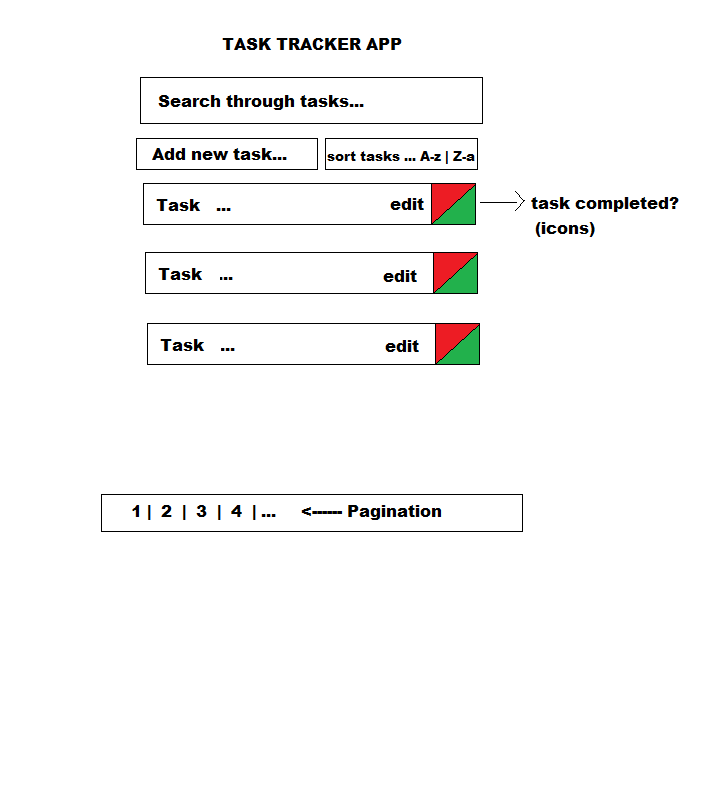
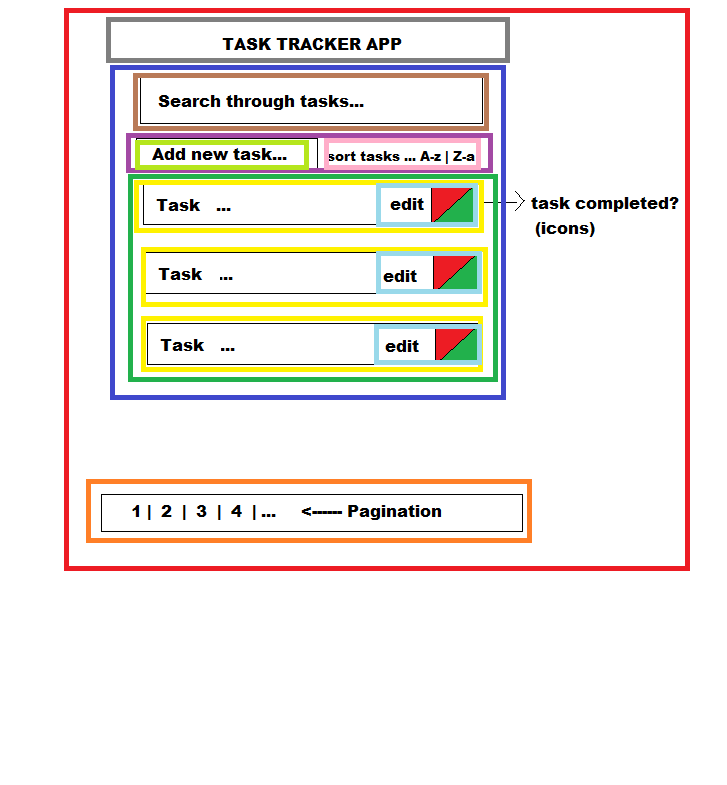
Feeling lost, la la la, trying to make sense of these folder structures, la la la... Updated README btw

Changed region(s): [[0.0908, 0.0, 0.9684, 0.7338]]

diff --git a/src/App.js b/src/App.js
@@ -1,21 +1,15 @@
-import { useState, useEffect } from "react";
-import axios from "axios";
+import React from "react";
+import Header from "./layout/header/Header";
+import Main from "./layout/main/Main";
+import Footer from "./layout/footer/Footer";
+import "./styles/index.css";
 
 function App() {
-  let data;
-  const handleClick = () => {
-    axios.get("http://localhost:5000/tasks").then((response) => {
-      const { data } = response;
-      console.log(data);
-    });
-  };
-
   return (
     <>
-      <div>
-        <h1>hello world</h1>
-        <button onClick={handleClick}>GET</button>
-      </div>
+      <Header />
+      <Main />
+      <Footer />
     </>
   );
 }

diff --git a/src/styles/index.css b/src/styles/index.css
@@ -1,0 +1,8 @@
+* {
+  margin: 0;
+  padding: 0;
+  box-sizing: border-box;
+  list-style-type: none;
+  font-family: Bahnschrift, -apple-system, BlinkMacSystemFont, "Segoe UI",
+    Roboto, Oxygen, Ubuntu, Cantarell, "Open Sans", "Helvetica Neue", sans-serif;
+}

diff --git a/src/layout/footer/Footer.js b/src/layout/footer/Footer.js
@@ -1,0 +1,11 @@
+import React from "react";
+
+const Footer = () => {
+  return (
+    <footer>
+      <p>here goes footer</p>
+    </footer>
+  );
+};
+
+export default Footer;

diff --git a/src/layout/main/Main.js b/src/layout/main/Main.js
@@ -1,0 +1,11 @@
+import React from "react";
+
+const Main = () => {
+  return (
+    <section>
+      <div>here goes list</div>
+    </section>
+  );
+};
+
+export default Main;

diff --git a/src/layout/header/Header.js b/src/layout/header/Header.js
@@ -1,0 +1,11 @@
+import React from "react";
+
+const Header = () => {
+  return (
+    <header>
+      <h1>Task Tracker</h1>
+    </header>
+  );
+};
+
+export default Header;

diff --git a/README.md b/README.md
@@ -9,6 +9,15 @@
 - Goal: group by features or route
 
 - a) assets (icons for isCompleted task prop)
-- b) components (reusable stateless components)
-- c) pages (for router: main and about page)
-- d) hooks (self-explanatory)
+- b) layout (self-explanatory)
+- c) components (self-explanatory)
+- d) pages (for router: main and about page)
+- e) hooks (self-explanatory)
+- f) services (axios requests)
+- g) styles (css...)
+
+### 2. Create basic layout
+
+- Header (header + add task/sort tasks)
+- Main (render list)
+- Footer (pagination)
